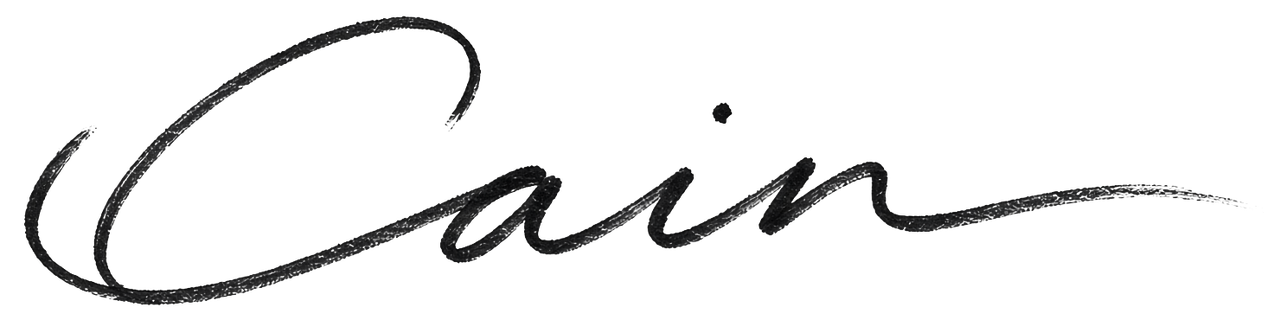
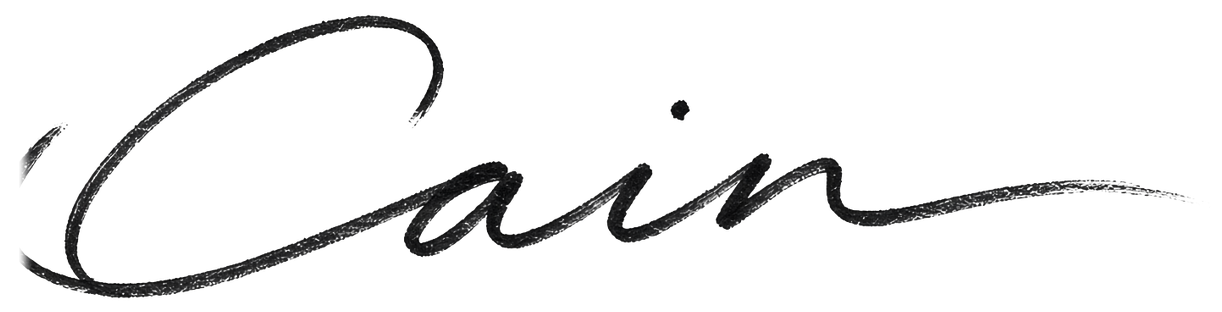
Remove the inbound tail on the C in the About signature.

Changed region(s): [[0.0, 0.0288, 0.964, 0.9519], [0.5286, 0.3173, 0.5908, 0.375]]

diff --git a/src/routes/about.tsx b/src/routes/about.tsx
@@ -39,7 +39,7 @@ function About() {
         <SiteCopyBody body={page.body} />
         <figure className="mt-4 max-w-sm">
           <img
-            src="/brand/cain-signature.png?v=2"
+            src="/brand/cain-signature.png?v=3"
             alt="Cain"
             className="h-20 w-auto sm:h-24"
           />
